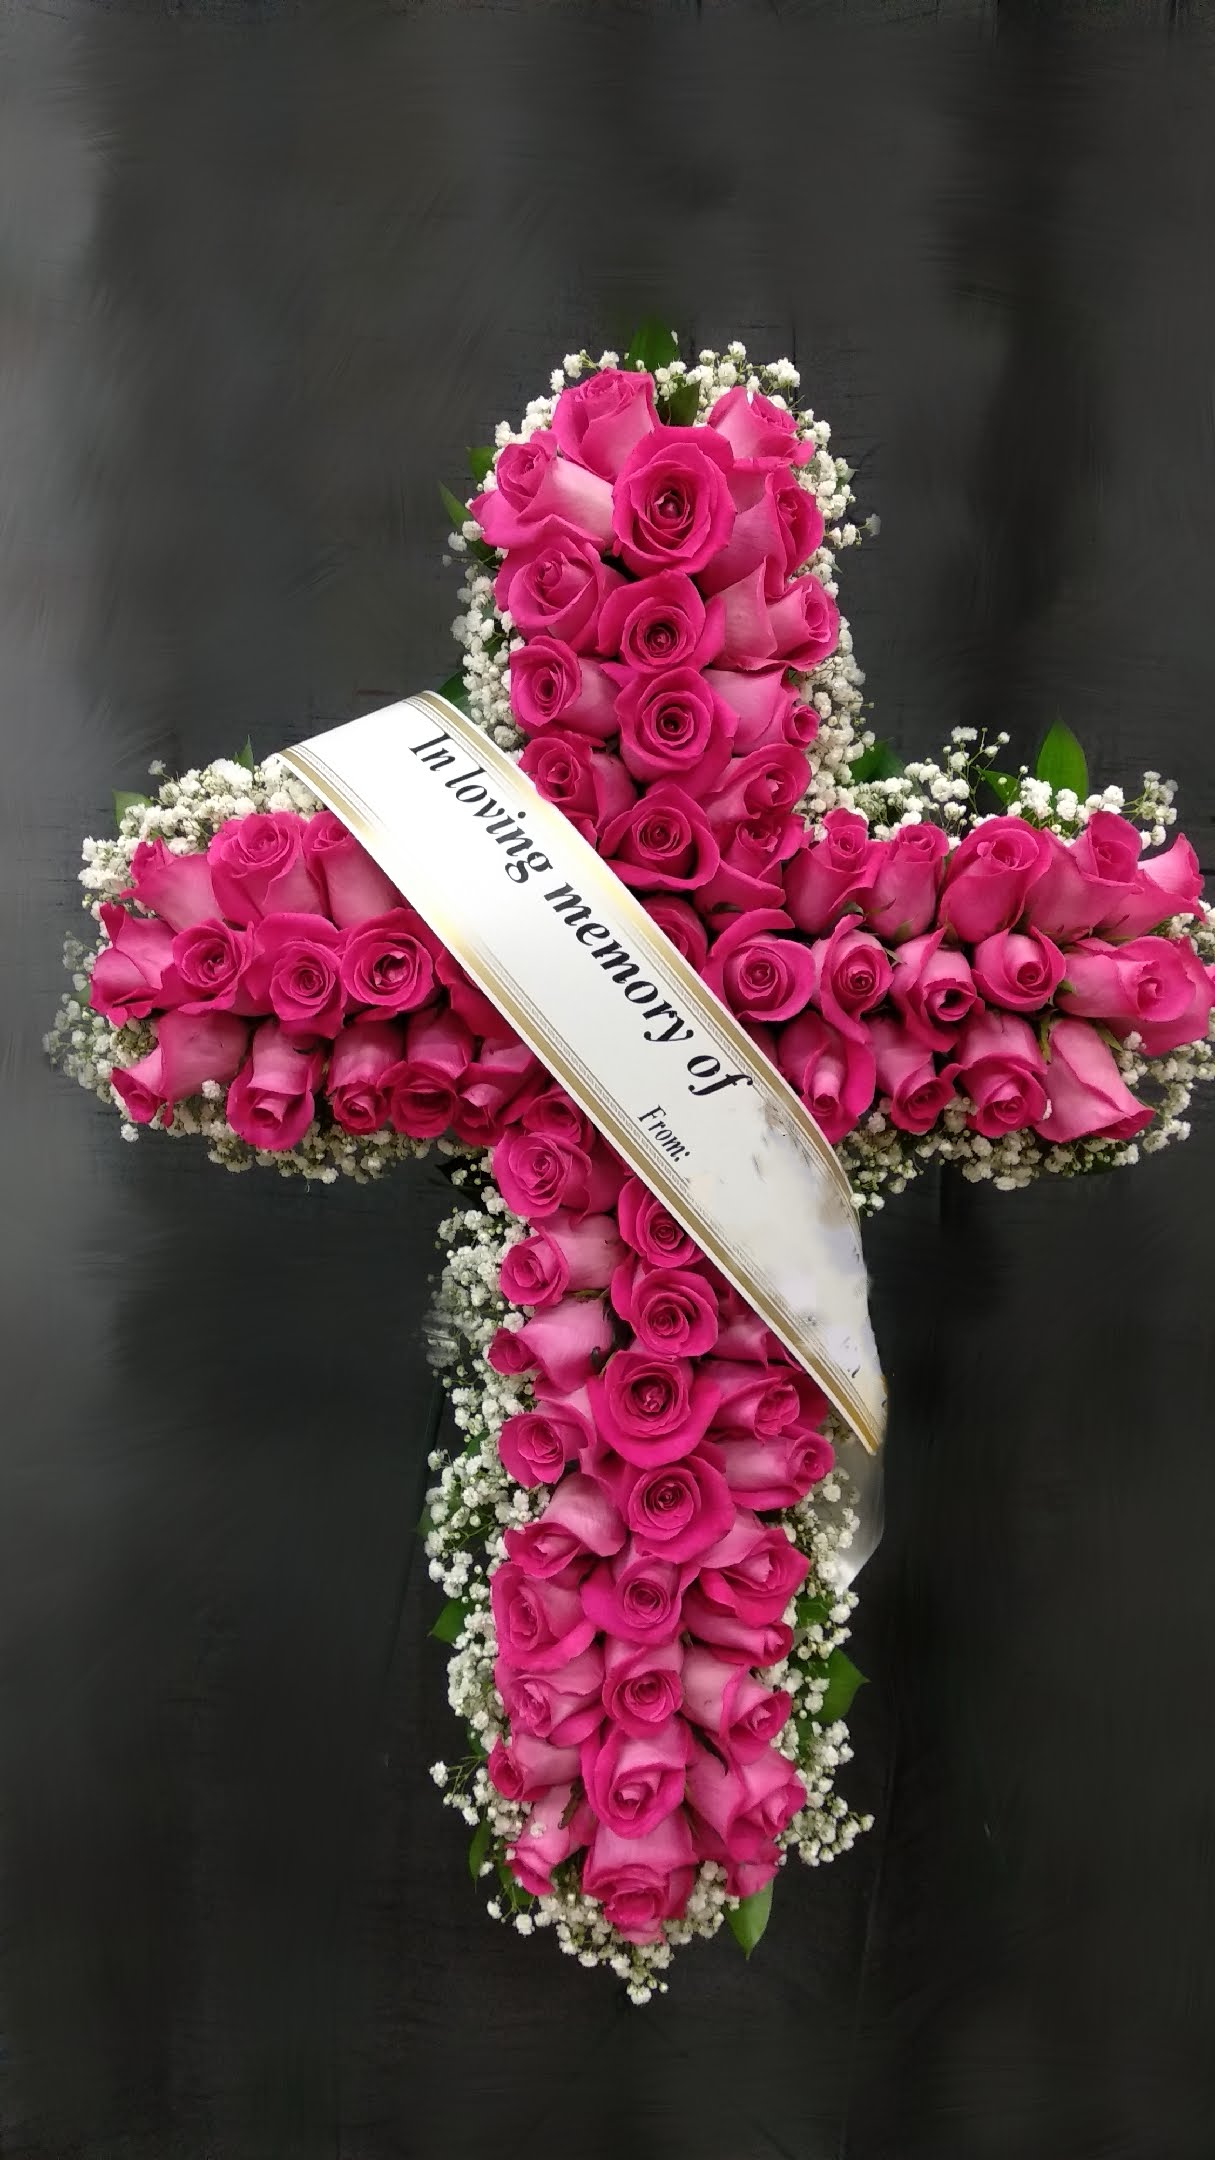
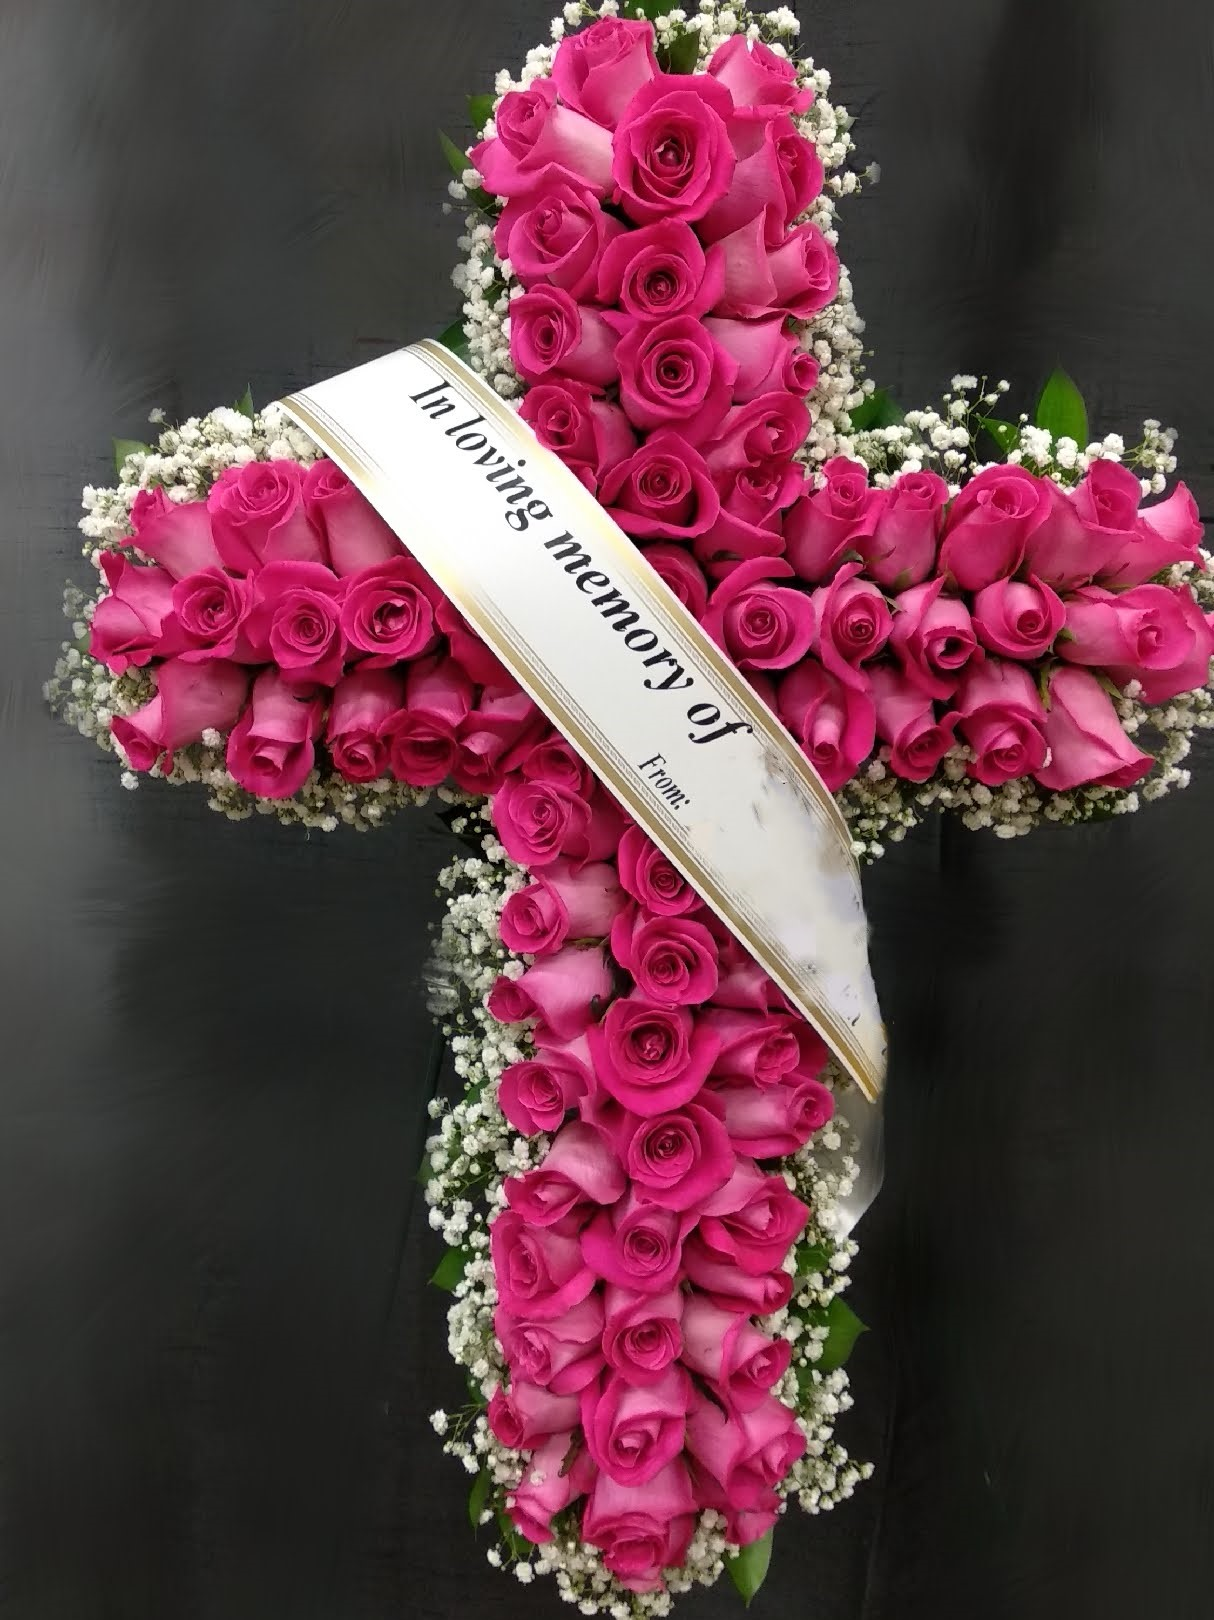
changed: picture to 4:3

diff --git a/menu/peace.html b/menu/peace.html
@@ -47,7 +47,7 @@
                         <div class="row gtr-50 gtr-uniform">
                             <article class="col-4 col-6-small">
                                 <span class="image fit">
-                                    <a href="../peace-sections/spray.html" class="image"><img src="../images/peace/19.jpg" alt="" /></a>
+                                    <a href="../peace-sections/spray.html" class="image"><img src="../images/peace/15.jpg" alt="" /></a>
                                     <h3>
                                     	Standing Spray
                                     </h3>
